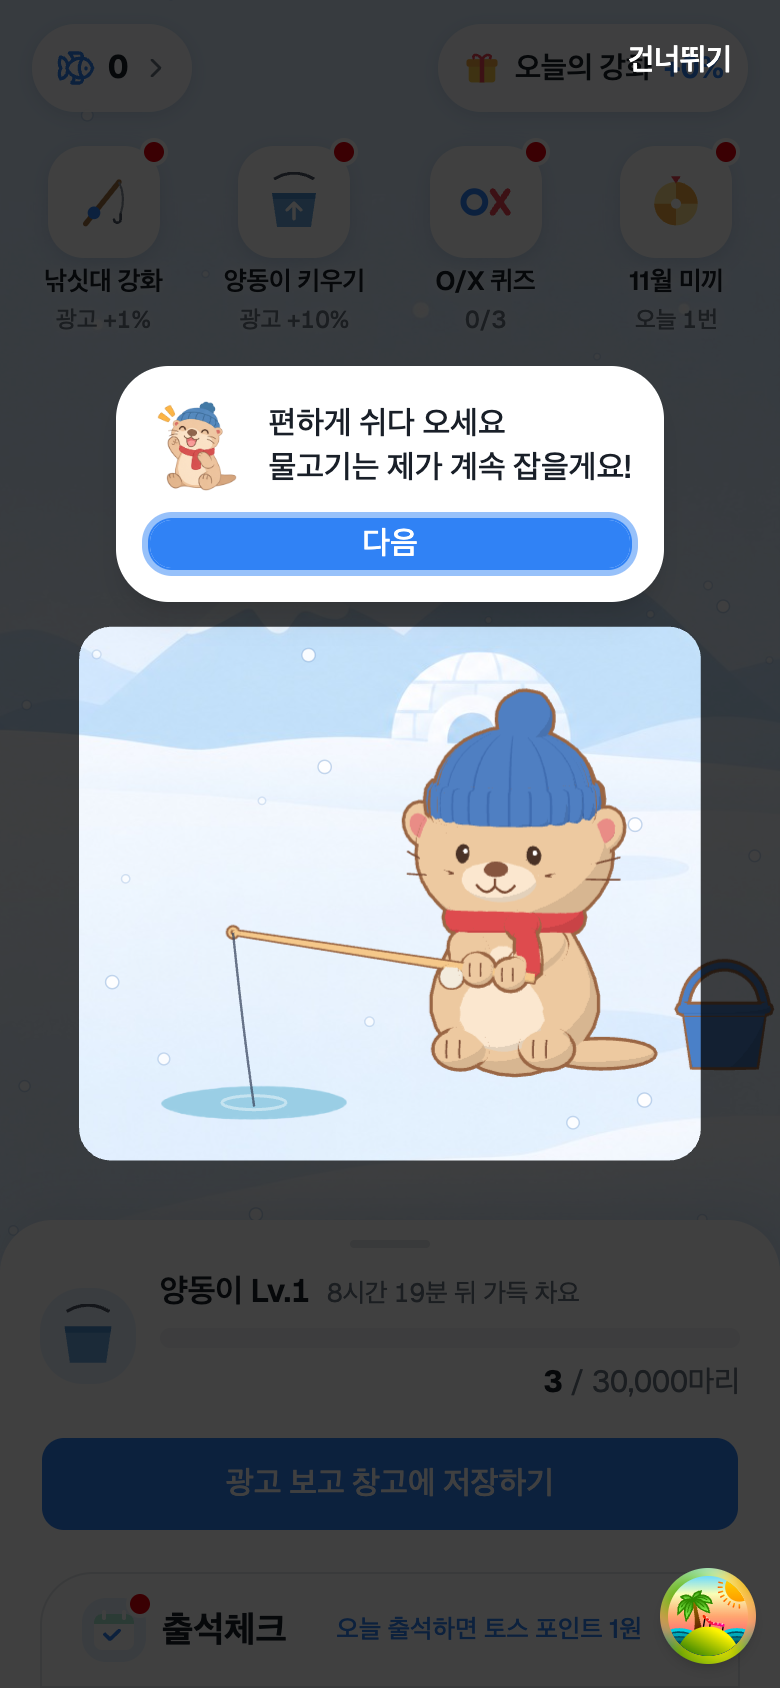
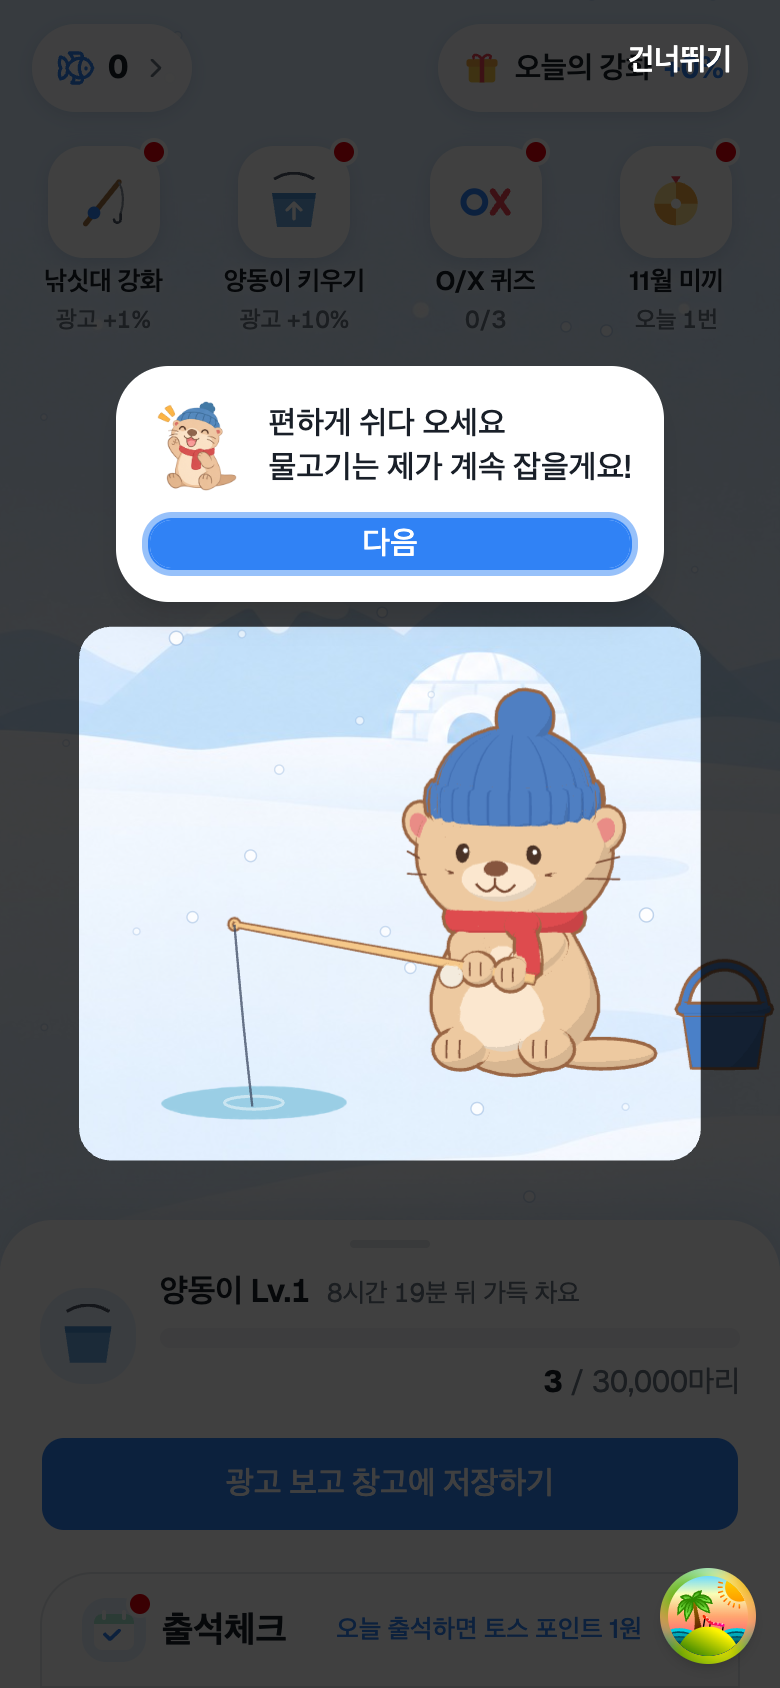
feat(web): 온보딩 3단계 문구를 '양동이가 차면 / 이 버튼으로 창고에 옮기세요!' 로 바꾼다

Changed region(s): [[0.2769, 0.5237, 0.6154, 0.5853], [0.7692, 0.4929, 0.8, 0.5237], [0.3077, 0.6161, 0.3385, 0.6469]]

diff --git a/apps/web/src/features/welcome-tutorial/model/steps.ts b/apps/web/src/features/welcome-tutorial/model/steps.ts
@@ -65,7 +65,7 @@ export const TUTORIAL_STEPS: readonly TutorialStep[] = [
   {
     id: 'store-intro',
     target: 'store',
-    message: '양동이가 차면 이 버튼으로 창고에 옮겨요',
+    message: '양동이가 차면\n이 버튼으로 창고에 옮기세요!',
     action: { type: 'info' },
   },
   {

diff --git a/docs/design/tutorial.md b/docs/design/tutorial.md
@@ -94,7 +94,7 @@
      |
 2. 양동이 게이지  "쉬는 동안 잡은 물고기는 / 여기 양동이에 쌓여요"            다음
      |
-3. 저장 버튼      "해먹이 차면 이 버튼으로 창고에 옮겨요"                     다음 (설명만)
+3. 저장 버튼      "양동이가 차면 / 이 버튼으로 창고에 옮기세요!"              다음 (설명만)
      |
 4. 내 창고        "창고에 모은 물고기는 토스 포인트로 받을 수 있게 준비하고 있어요"   다음
      |
